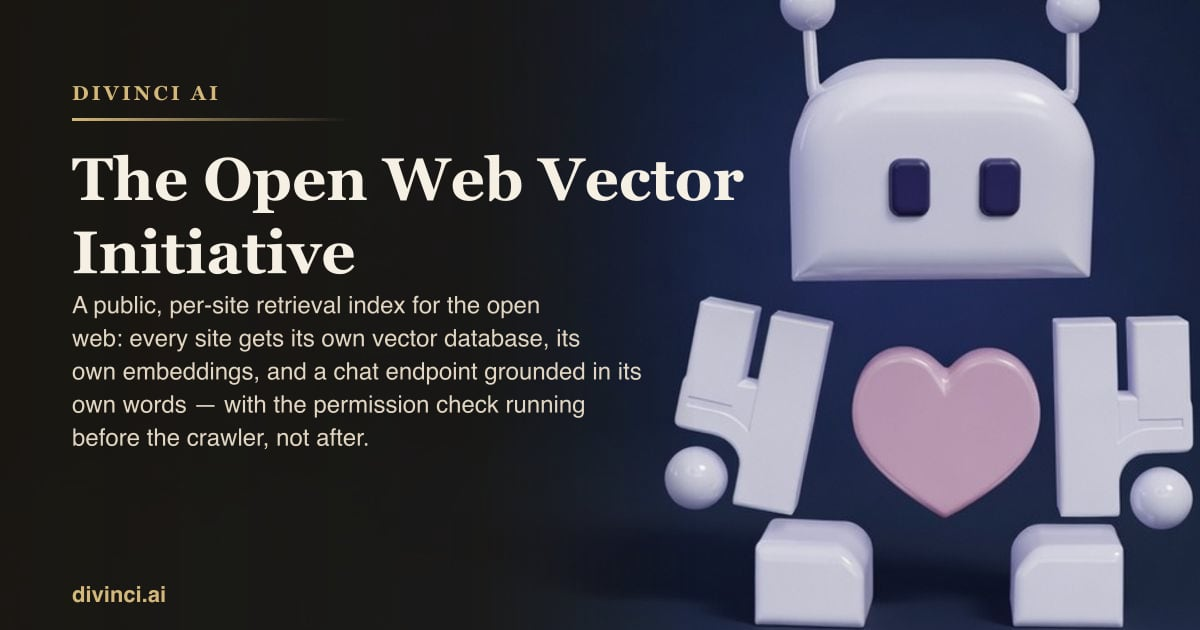
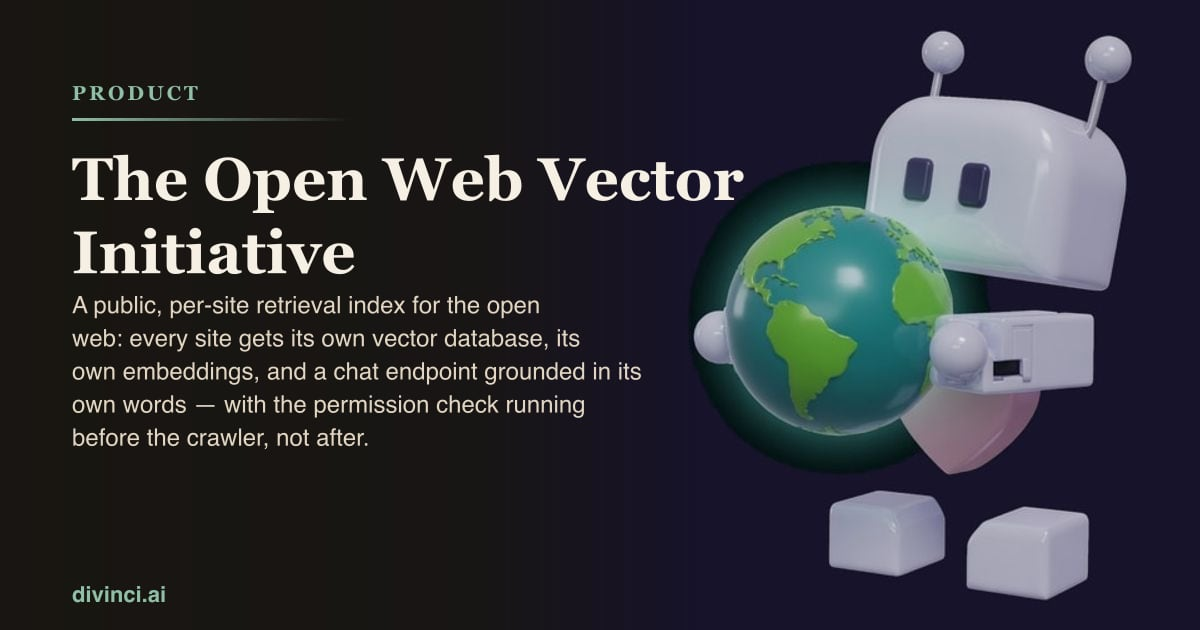
feat(open-web-vectors): robot faces the copy, holding a globe
The hero still looked off-stage. He now turns left toward the headline
and the viewer, cradling a stylized web orb the same way the OG plates
hold a book or a phone.

diff --git a/site/templates/open-web-vectors.html b/site/templates/open-web-vectors.html
@@ -42,9 +42,9 @@
         the point.
 
         What is kept: the flower-of-life ring geometry, verbatim, and the robot
-        — the same camera-facing 3D plate used for the site OG cards
-        (scripts/og-assets/robots/look.jpg), isolated on transparency, rather
-        than re-rendered here as WebGL.
+        — the same 3D plate language as the site OG cards, here holding a
+        globe and facing left toward the copy (scripts/og-assets/robots/globe.jpg),
+        isolated on transparency rather than re-rendered as WebGL.
 
         The SDK version rides six emoji on the outer circle. They are dropped
         here: at this scale the ring and the robot carry the composition on
